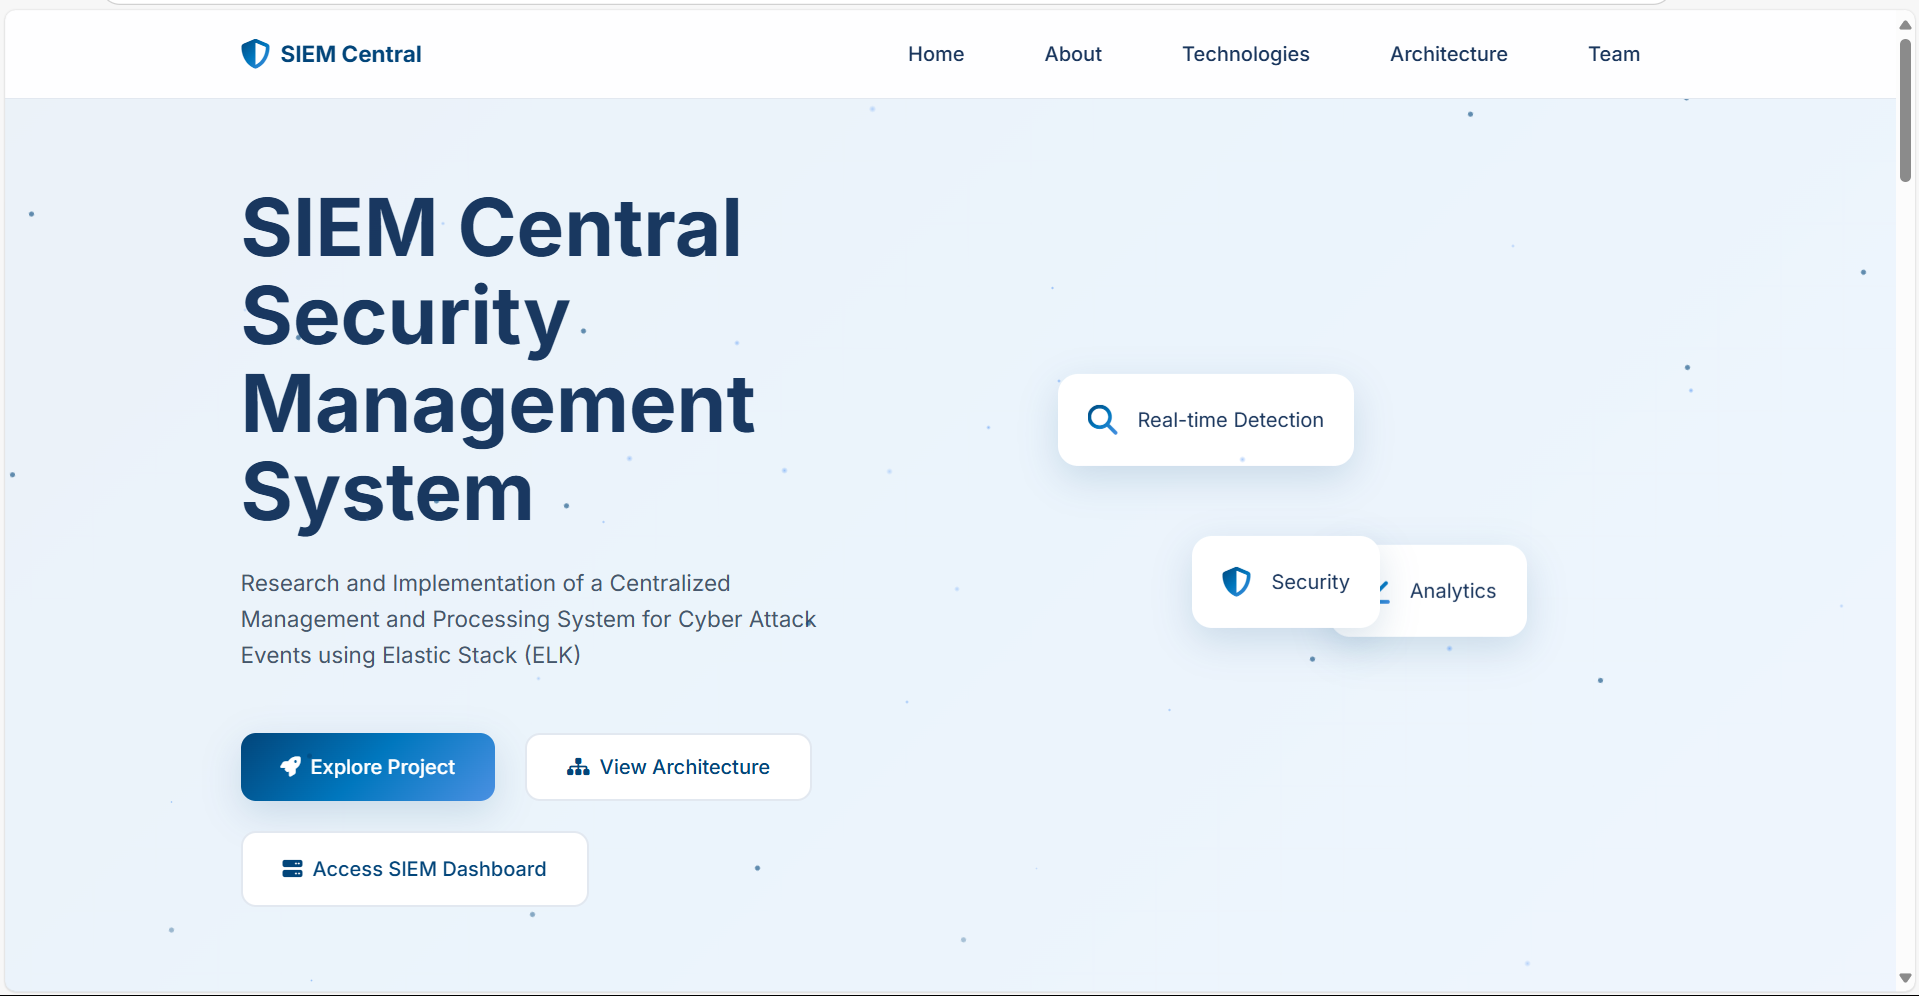
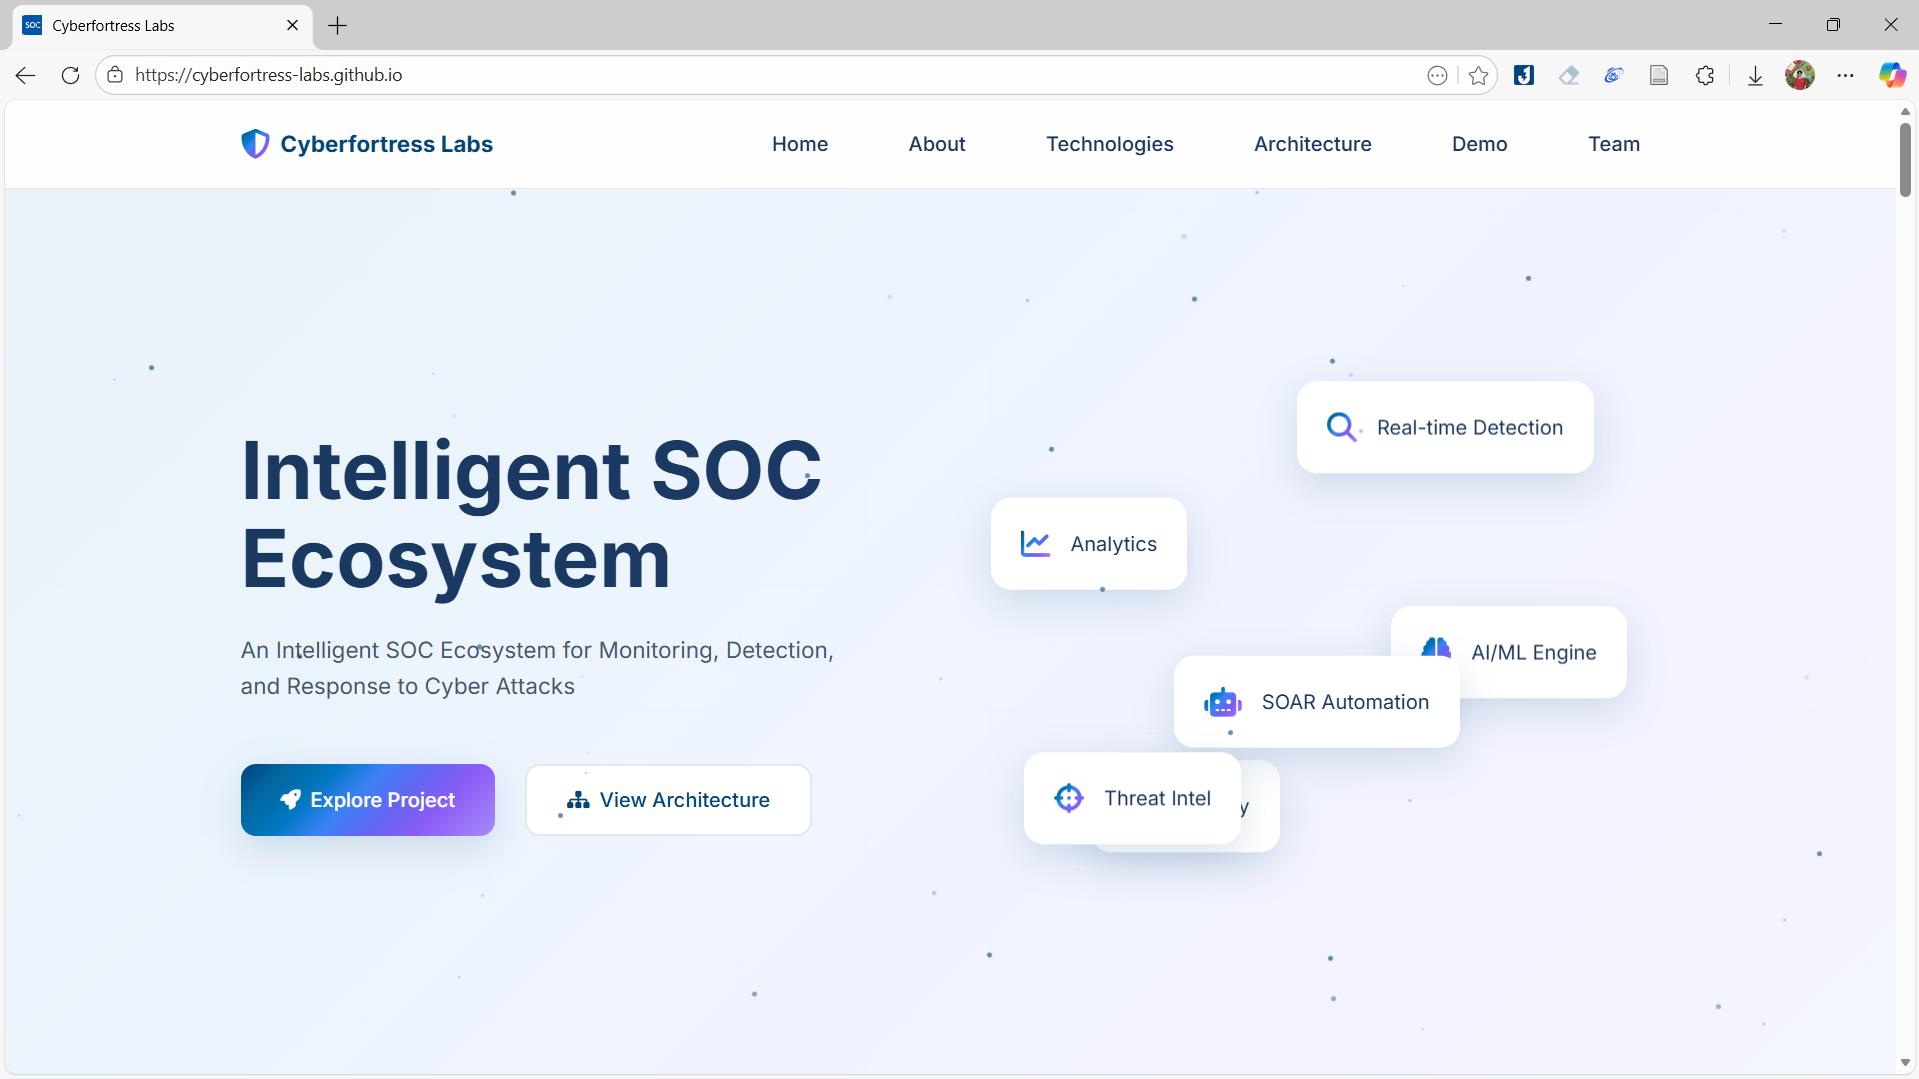
feat: Add base styling and update README with detailed Intelligent SOC Ecosystem project overview and architecture.

diff --git a/css/main.css b/css/main.css
@@ -826,7 +826,7 @@ p {
 
 .smartxdr-architecture .architecture-container {
     grid-template-columns: 1fr;
-    max-width: 1000px;
+    max-width: 100%;
     margin: 0 auto;
 }
 
@@ -834,6 +834,7 @@ p {
     background: white;
     padding: var(--spacing-md);
     border: 1px solid var(--border);
+    max-width: 100%;
 }
 
 .workflow-title {

diff --git a/README.md b/README.md
@@ -1,61 +1,103 @@
-# SIEM Central Web
+# Cyberfortress Labs - Intelligent SOC Ecosystem
 
-# Overview
-SIEM Central is a web platform showcasing a research and implementation project focused on a Security Information and Event Management (SIEM) system using the Elastic Stack (ELK). This website documents the architecture, technologies, and capabilities of a centralized management and processing system for cyber attack events.
-![alt text](img/demo-web.png)
-# Project Description
-The project demonstrates the deployment of a comprehensive SIEM solution that collects, processes, analyzes, and visualizes cybersecurity events within a simulated environment. It focuses on monitoring logs from Windows and Linux systems, along with security devices like Suricata and pfSense, to detect, investigate, and respond to threats in real-time.
+> An Intelligent SOC Ecosystem for Monitoring, Detection, and Response to Cyber Attacks
 
-View the full project at: [https://github.com/WanThinnn/SIEM-Central](https://github.com/WanThinnn/SIEM-Central)
+![SIEM Architecture](img/KLTN_SOC-Ecosystem-LogicFlow.drawio.png)
 
-# Technologies Used
-- **Elastic Stack (ELK):** Elasticsearch, Logstash, Kibana, and Beats (Elastic Agent/Filebeat)
-- **Network/Security Devices:** pfSense (router, firewall, log forwarding), Suricata (Inline IDS/IPS)
-- **Log Sources:** Windows Event Logs, Linux System Logs, Web Server Logs
-- **Other Tools:** Nginx (reverse proxy), Metasploitable2 (attack simulation environment)
-- **Query Languages:** Elasticsearch Query DSL, Kibana Query Language (KQL)
-- **Frameworks:** MITRE ATT&CK Framework (for mapping detection rules)
+## Overview
 
-# Website Structure
-- **Home:** Introduction to the SIEM Central project
-- **About:** Detailed project overview and description
-- **Technologies:** Information about the tech stack used
-- **Architecture:** System design and deployment architecture
-- **Team:** Information about project contributors
+A unified intelligent SOC ecosystem where SIEM, SOAR, OpenXDR, Threat Intelligence, and AI/ML/LLM platforms are integrated into a cohesive operational pipeline. The system enables end-to-end security event processing: from log collection and normalization to analysis and automated incident response. SmartXDR serves as the intelligent fusion layer, providing semantic analysis, event enrichment, and risk-based triage prioritization.
 
-# Implementation Details
-- Custom architecture design based on Elastic Stack
-- Log collection from multiple sources using Beats
-- Data processing pipelines with Logstash
-- Real-time threat detection using Suricata
-- Custom detection rules mapped to MITRE ATT&CK Framework
-- Interactive dashboards and visualizations with Kibana
+**View the project:** [https://cyberfortress-labs.github.io/](https://cyberfortress-labs.github.io/)
 
-# Features
-- Real-time security monitoring and analytics
-- Comprehensive threat detection capabilities
-- Interactive visual representations of security data
-- Centralized management of cyber attack events
-- Integration with multiple security tools and frameworks
+## Key Features
 
-# Getting Started with the Website
-1. Navigate through the main sections using the navigation menu
-2. Explore the detailed project information in the About section
-3. View the system architecture diagrams to understand the implementation
-4. Access the SIEM Dashboard via the link in the navigation
+- **Real-time log monitoring & alerting**
+- **AI/ML-based log classification**
+- **CTI enrichment (MISP, IntelOwl)**
+- **Automated incident response (SOAR)**
+- **MITRE ATT&CK mapping**
+- **Human-in-the-loop AI support**
+- **Customizable dashboards**
+- **Integration with SIEM**
+- **Open Source Project**
 
-# Development
-This website is built using:
-- HTML5
-- CSS3 (with custom grid system and animations)
-- JavaScript
-- Font Awesome for UI elements
-- Responsive design for optimal viewing on all devices
+## Technologies & Tools
 
-# Collaborator
+### Elastic Stack (ELK)
+Complete search and analytics platform:
+- Elasticsearch
+- Logstash
+- Kibana
+- Beats & Elastic Agent
+- Elastic Fleet
 
-- **Lại Quan Thiên** - [WanThinnn](https://github.com/WanThinnn)
-- **Hồ Diệp Huy** - [hohuyy](https://github.com/hohuyy)
+### Network Security
+- pfSense
+- Suricata IDS/IPS
+- Zeek NSM
+- Nginx
 
-# Last Updated
+### SOAR & Automation
+- n8n Workflows
+- DFIR-IRIS
+- ElastAlert2
+- Playbooks
+
+### Threat Intelligence
+- MISP
+- IntelOwl
+- IOC Enrichment
+- CTI Feeds
+
+### AI/ML Engine
+- SmartXDR
+- Log Classification
+- LLM RAG
+- Anomaly Detection
+
+## System Architecture
+
+### Infrastructure & Sensors
+Network Sensors (Suricata IDPS, Zeek NSM), Endpoint Sensors (Wazuh Agents), and Network Infrastructure (pfSense Firewall, Nginx Reverse Proxy, WAF) provide comprehensive visibility.
+
+### Central Data
+Logs Management (Logstash, Elastic Agents, Fleet) normalizes data to ECS format. Elasticsearch serves as the centralized Data Lake for fast retrieval and long-term Big Data storage.
+
+### Application & Analytics
+Kibana (SIEM Dashboard), Wazuh Manager (Security Management), Elastic Detection Rules (KQL/EQL), and ElastAlert2 provide real-time analysis and multi-layer alert generation.
+
+### Orchestration & Response
+n8n (Integration Hub), DFIR-IRIS (Incident Management), MISP & IntelOwl (CTI Platform), and SmartXDR (AI-powered analysis, automated reporting, human-in-the-loop decision support).
+
+## System Processing Workflow
+
+![SOC Pipeline](img/KLTN_SOC-Ecosystem-Pipeline.drawio.png)
+
+1. **Log Collecting**: Elastic Agent and Fleet collect raw logs from Firewall (pfSense), Linux Router, IDPS (Suricata), NSM (Zeek), WAF (ModSecurity). Logs are parsed, normalized to ECS standard and stored for pipeline processing.
+2. **Log Pre-processing**: SmartXDR Ingest Pipeline filters redundant fields, extracts contextual information, and generates the `ml_input` field - a structured, condensed log representation serving as input for ML classification.
+3. **Classification and Enrichment**: SmartXDR Classification uses Bylastic (DistilBERT-based model by Byviz Analytics) to analyze `ml_input` semantically, assign severity labels, and generate `prediction_probability` scores stored in `ml.prediction.*` fields.
+4. **Alert Generation and Correlation**: Elastic Detection Rules query ML fields for anomaly detection. ElastAlert2 monitors alerts index and forwards matched alerts with IoCs, timestamps, and Kibana links to DFIR-IRIS for case management.
+5. **Contextual Enrichment and Incident Response**: Analysts review alerts in DFIR-IRIS, convert to Incident Cases. IntelOwl performs IoC pre-analysis via MISP and VirusTotal. SmartXDR Analysis uses RAG for intelligent interpretation and risk assessment.
+6. **Automated Response and Reporting**: n8n workflows orchestrate Wazuh Active Response for endpoint isolation, pfSense/Suricata rule updates for network blocking. SmartXDR Reporting generates DOCX reports, uploads to cloud storage, and sends Telegram notifications.
+
+## SmartXDR
+
+![SmartXDR Architecture](img/KLTN_SOC-Ecosystem-SmartXDR.drawio.png)
+
+SmartXDR is the intelligent SOC ecosystem core designed as the central brain orchestrating the entire SOC operational pipeline.
+
+- **SmartXDR Core**: The central Control Plane responsible for orchestrating all modules, routing data, managing background tasks, and providing AI/LLM/RAG services.
+- **Ingest Pipeline**: Handles data enrichment before storage. Filters noise, extracts contextual information, and generates the `ml_input` field.
+- **Classification**: Uses Bylastic (DistilBERT model) to automatically classify logs into INFO, WARNING, and ERROR severity levels.
+- **Analysis**: Deep analysis layer performing semantic analysis on Logs and IoCs with Risk Score calculation. Integrates LLM+RAG for CTI-style reports.
+- **Reporting**: Extracts and aggregates classified log events to generate administrative reports, distributed via Email/Telegram and Webhook.
+- **Assistant**: AI Security Assistant combining LLM with Advanced RAG using Two-Stage Retrieval (Bi-encoder & Cross-encoder).
+
+## Project Team
+
+- **Lai Quan Thien** - [WanThinnn](https://github.com/WanThinnn)
+- **Ho Diep Huy** - [hohuyy](https://github.com/hohuyy)
+
+## Last Updated
 June 19, 2025
